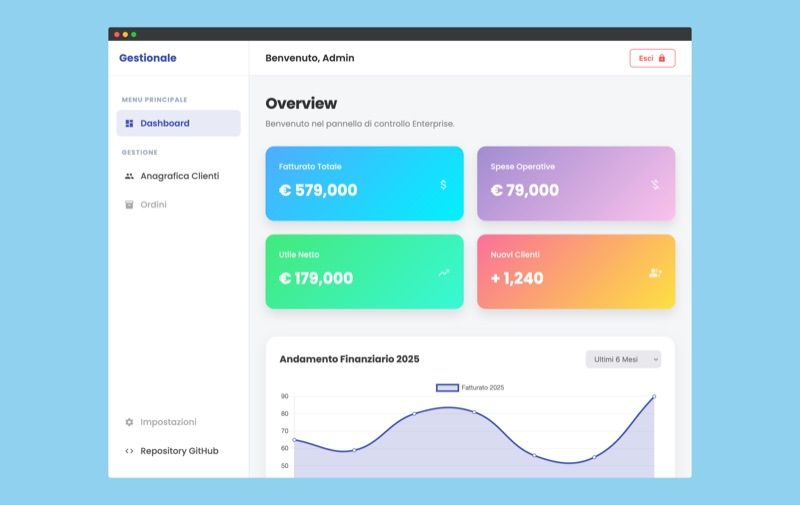
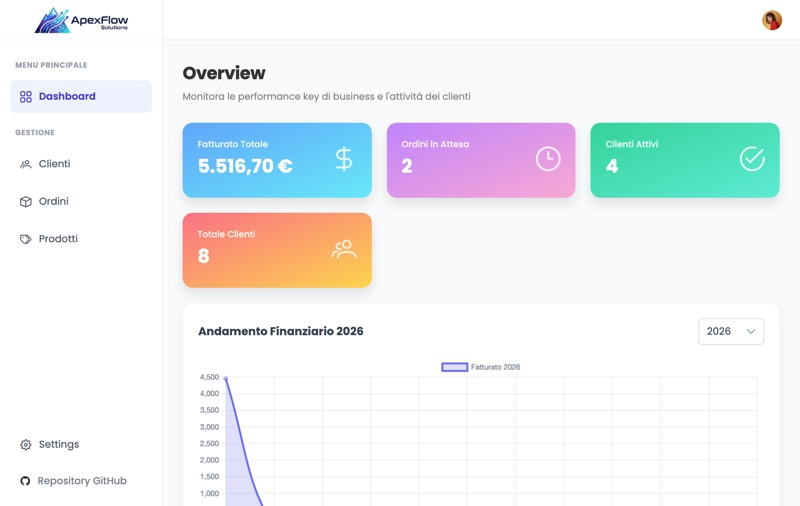
fix: ApexFlow drops the back-end link and shows a new screenshot of the live dashboard (#262)

diff --git a/src/app/content/content.it.ts b/src/app/content/content.it.ts
@@ -44,11 +44,10 @@ export const CONTENT_IT: SiteContent = {
         'Una dashboard CRM e di analytics: Angular 19 con Signals e RxJS nel frontend, Spring Boot 3 e PostgreSQL nel backend.',
       repos: [
         { label: 'Codice del frontend', url: 'https://github.com/xdelmo/dashboard-tesi' },
-        { label: 'Codice del backend', url: 'https://github.com/xdelmo/backend-tesi' },
       ],
       image: {
         src: 'images/work/apexflow.jpg',
-        alt: 'La dashboard di ApexFlow con i totali di fatturato, spese, utile e nuovi clienti, il grafico del fatturato e la barra di navigazione',
+        alt: 'La dashboard di ApexFlow con fatturato totale, ordini in attesa, clienti attivi e totali, il grafico annuale del fatturato e la barra di navigazione',
         width: 1600,
         height: 1011,
       },

diff --git a/src/app/content/content.en.ts b/src/app/content/content.en.ts
@@ -45,12 +45,11 @@ export const CONTENT_EN: SiteContent = {
       stack: ['Angular', 'Signals', 'RxJS', 'PrimeNG', 'Spring Boot', 'PostgreSQL'],
       repos: [
         { label: 'Front-end code', url: 'https://github.com/xdelmo/dashboard-tesi' },
-        { label: 'Back-end code', url: 'https://github.com/xdelmo/backend-tesi' },
       ],
       demoUrl: 'https://dashboard-tesi.vercel.app/welcome',
       image: {
         src: 'images/work/apexflow.jpg',
-        alt: 'ApexFlow dashboard with revenue, expense, profit and new-customer totals, a revenue chart and the navigation sidebar',
+        alt: 'ApexFlow dashboard with total revenue, pending orders, active and total customers, the yearly revenue chart and the navigation sidebar',
         width: 1600,
         height: 1011,
       },

diff --git a/src/app/content/public-repos.spec.ts b/src/app/content/public-repos.spec.ts
@@ -2,7 +2,7 @@ import { CONTENT_EN } from './content.en';
 import { onlyPublic } from './public-repos';
 
 describe('onlyPublic', () => {
-  const isPublic = (url: string) => url.endsWith('/magsafe-cardholder') || url.endsWith('/backend-tesi');
+  const isPublic = (url: string) => url.endsWith('/magsafe-cardholder') || url.endsWith('/dashboard-tesi');
 
   it('keeps only the links to public repositories, and the projects and side quests themselves', () => {
     const c = onlyPublic(CONTENT_EN, isPublic);

diff --git a/src/app/pages/case-study/case-study.spec.ts b/src/app/pages/case-study/case-study.spec.ts
@@ -73,7 +73,7 @@ describe('CaseStudy', () => {
   it('labels each repository link', async () => {
     const el = await render('apexflow');
     const labels = [...el.querySelectorAll('.links a')].map((a) => a.textContent.trim());
-    expect(labels).toEqual(['Front-end code', 'Back-end code', 'Open the live demo']);
+    expect(labels).toEqual(['Front-end code', 'Open the live demo']);
   });
 
   it('leads with the demo when no code is public, and drops the row when there is neither', async () => {

diff --git a/docs/superpowers/specs/2026-10-03-portfolio-v2-design.md b/docs/superpowers/specs/2026-10-03-portfolio-v2-design.md
@@ -400,3 +400,4 @@ Per i prossimi sviluppi: le domande aperte (titolo ufficiale, livello delle ling
 | 2026-10-24 | Ice Friends Breaker esce dai progetti (restano ApexFlow e PokèVerba): tolti contenuti EN/IT, screenshot e immagini Open Graph; sul desktop PokèVerba resta a mezza larghezza sotto ApexFlow | "elimina ice friends breaker dai progetti" |
 | 2026-10-25 | Nelle transizioni verso i case study (dalla Home o tra progetti) lo screenshot non si muove più attraverso lo schermo: tolto il `view-transition-name` `shot-*` dalle immagini dei progetti e forzato lo scroll istantaneo a inizio pagina (issue #256) | richiesta dell'utente ("immagini che scorrono su tutta la schermata") |
 | 2026-10-25 | Moai su mobile: lo swipe orizzontale per ruotarlo non fa più scrollare la pagina in verticale; il gesto viene bloccato dinamicamente (cancella il default solo per movimenti orizzontali, preservando lo scroll verticale della pagina) (issue #258) | richiesta dell'utente ("quando sto scrollando orizzontalmente su moai scrolla anche verticalmente") |
+| 2026-10-25 | ApexFlow: tolto il link al codice del backend (`backend-tesi`) dal progetto e dal case study; nuovo screenshot preso dalla dashboard della demo (`/dashboard`, account admin demo), con l'alt aggiornato (issue #262) | richiesta dell'utente ("elimina il link al backend, sostituisci screenshot") |
